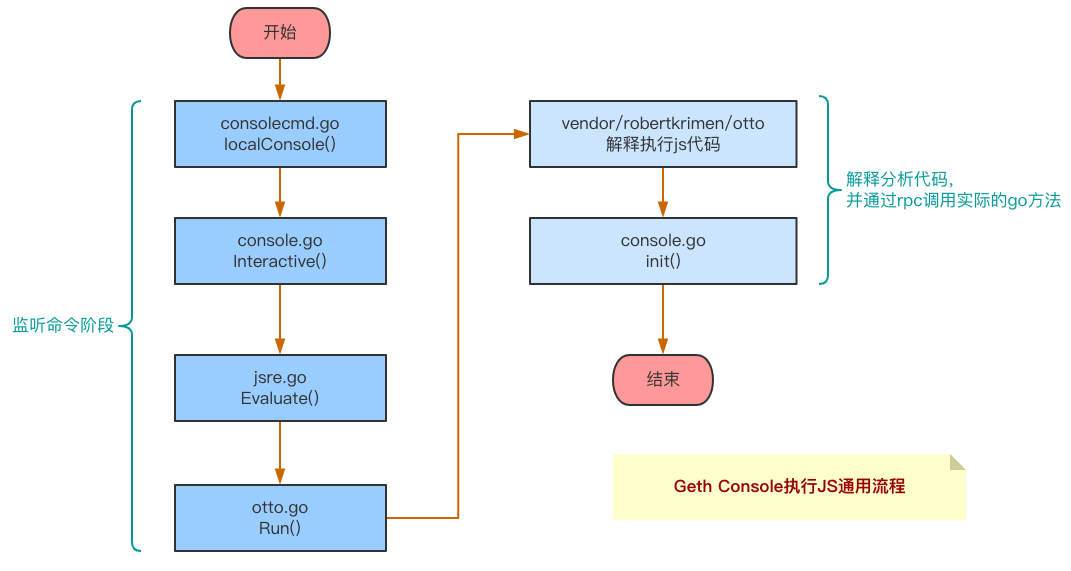
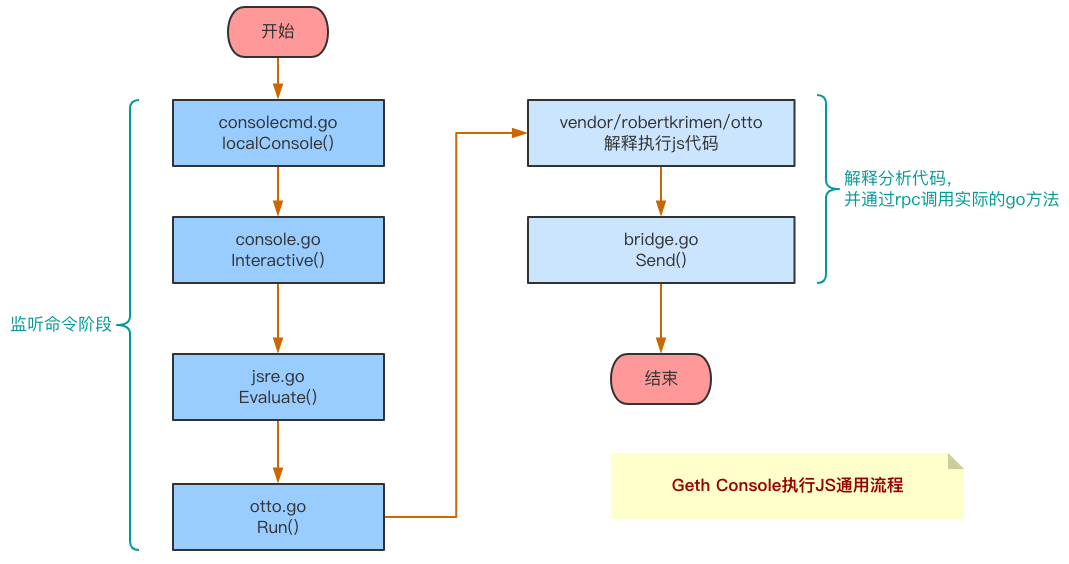
Site updated: 2018-05-25 16:31:36

diff --git a/2018/05/24/Ethereum转账流程剖析/index.html b/2018/05/24/Ethereum转账流程剖析/index.html
@@ -100,7 +100,7 @@
 <meta property="og:site_name" content="花木兰">
 <meta property="og:description" content="转载请注明出处：www.huamo.online  在js console中转账ETH在我之前的文章《Ethereum初探》中，已经详述了在以太坊私链中转账的操作，可以在那里细细查看。 背后流程Geth Console执行JS通用流程在探讨sendTransaction转账流程之前，让我们先看下JS执行的通用流程。如下图所示。">
 <meta property="og:image" content="http://www.huamo.online/source_code/image/geth-console执行js通用流程.png">
-<meta property="og:updated_time" content="2018-05-25T08:12:23.000Z">
+<meta property="og:updated_time" content="2018-05-25T08:31:13.000Z">
 <meta name="twitter:card" content="summary">
 <meta name="twitter:title" content="Ethereum转账流程剖析">
 <meta name="twitter:description" content="转载请注明出处：www.huamo.online  在js console中转账ETH在我之前的文章《Ethereum初探》中，已经详述了在以太坊私链中转账的操作，可以在那里细细查看。 背后流程Geth Console执行JS通用流程在探讨sendTransaction转账流程之前，让我们先看下JS执行的通用流程。如下图所示。">
@@ -395,7 +395,7 @@
 <ul>
 <li>[3]在获取到用户的输入后，接下来就开始执行代码，这里面借用了一个第三方库<code>github.com/robertkrimen/otto</code>，它是一个<code>golang</code>实现的<code>js</code>解释器。在<code>scheduler</code>通道获取用户输入后，会使用<code>jsre.Evaluate()</code>方法执行<code>input</code>内容，该方法内部直接调用<code>otto</code>的<code>vm.Run()</code>方法，传入解释器并运行。如前所述，在<code>console.init()</code>过程中，<code>jsre</code>中已经注入了<code>web3.js</code>和<code>send</code>，所以实际执行过程中，都会通过<code>bridge.Send()</code>将方法<code>RPC</code>到以太坊的<code>API</code>服务中去执行，并返回执行结果。</li>
 </ul>
-<figure class="highlight go"><table><tr><td class="gutter"><pre><div class="line">1</div><div class="line">2</div><div class="line">3</div><div class="line">4</div><div class="line">5</div><div class="line">6</div><div class="line">7</div><div class="line">8</div><div class="line">9</div><div class="line">10</div><div class="line">11</div><div class="line">12</div></pre></td><td class="code"><pre><div class="line"></div><div class="line"><span class="comment">// 调用栈</span></div><div class="line">c.Evaluate(input) -&gt; c.jsre.Evaluate(statement, c.printer) -&gt; vm.Run(code)</div><div class="line"></div><div class="line"><span class="comment">// console/console.go</span></div><div class="line"><span class="function"><span class="keyword">func</span> <span class="params">(c *Console)</span> <span class="title">Evaluate</span><span class="params">(statement <span class="keyword">string</span>)</span> <span class="title">error</span></span> &#123;&#125;</div><div class="line"></div><div class="line"><span class="comment">// internal/jsre/jsre.go</span></div><div class="line"><span class="function"><span class="keyword">func</span> <span class="params">(self *JSRE)</span> <span class="title">Evaluate</span><span class="params">(code <span class="keyword">string</span>, w io.Writer)</span> <span class="title">error</span></span> &#123;&#125;</div><div class="line"></div><div class="line"><span class="comment">// vendor/github.com/robertkrimen/otto/otto.go</span></div><div class="line"><span class="function"><span class="keyword">func</span> <span class="params">(self Otto)</span> <span class="title">Run</span><span class="params">(src <span class="keyword">interface</span>&#123;&#125;)</span> <span class="params">(Value, error)</span></span> &#123;&#125;</div></pre></td></tr></table></figure>
+<figure class="highlight go"><table><tr><td class="gutter"><pre><div class="line">1</div><div class="line">2</div><div class="line">3</div><div class="line">4</div><div class="line">5</div><div class="line">6</div><div class="line">7</div><div class="line">8</div><div class="line">9</div><div class="line">10</div><div class="line">11</div><div class="line">12</div><div class="line">13</div><div class="line">14</div><div class="line">15</div></pre></td><td class="code"><pre><div class="line"></div><div class="line"><span class="comment">// 调用栈</span></div><div class="line">c.Evaluate(input) -&gt; c.jsre.Evaluate(statement, c.printer) -&gt; vm.Run(code)</div><div class="line"></div><div class="line"><span class="comment">// console/console.go</span></div><div class="line"><span class="function"><span class="keyword">func</span> <span class="params">(c *Console)</span> <span class="title">Evaluate</span><span class="params">(statement <span class="keyword">string</span>)</span> <span class="title">error</span></span> &#123;&#125;</div><div class="line"></div><div class="line"><span class="comment">// internal/jsre/jsre.go</span></div><div class="line"><span class="function"><span class="keyword">func</span> <span class="params">(self *JSRE)</span> <span class="title">Evaluate</span><span class="params">(code <span class="keyword">string</span>, w io.Writer)</span> <span class="title">error</span></span> &#123;&#125;</div><div class="line"></div><div class="line"><span class="comment">// vendor/github.com/robertkrimen/otto/otto.go</span></div><div class="line"><span class="function"><span class="keyword">func</span> <span class="params">(self Otto)</span> <span class="title">Run</span><span class="params">(src <span class="keyword">interface</span>&#123;&#125;)</span> <span class="params">(Value, error)</span></span> &#123;&#125;</div><div class="line"></div><div class="line"><span class="comment">// console/bridge.go</span></div><div class="line"><span class="function"><span class="keyword">func</span> <span class="params">(b *bridge)</span> <span class="title">Send</span><span class="params">(call otto.FunctionCall)</span> <span class="params">(response otto.Value)</span></span> &#123;&#125;</div></pre></td></tr></table></figure>
 <blockquote>
 <p>转载请注明出处：<a href="http://www.huamo.online/">www.huamo.online</a></p>
 </blockquote>

diff --git a/css/main.css b/css/main.css
@@ -1782,7 +1782,7 @@ pre .javascript .function {
   width: 4px;
   height: 4px;
   border-radius: 50%;
-  background: #ffa41c;
+  background: #a445a4;
 }
 .links-of-blogroll {
   font-size: 13px;
